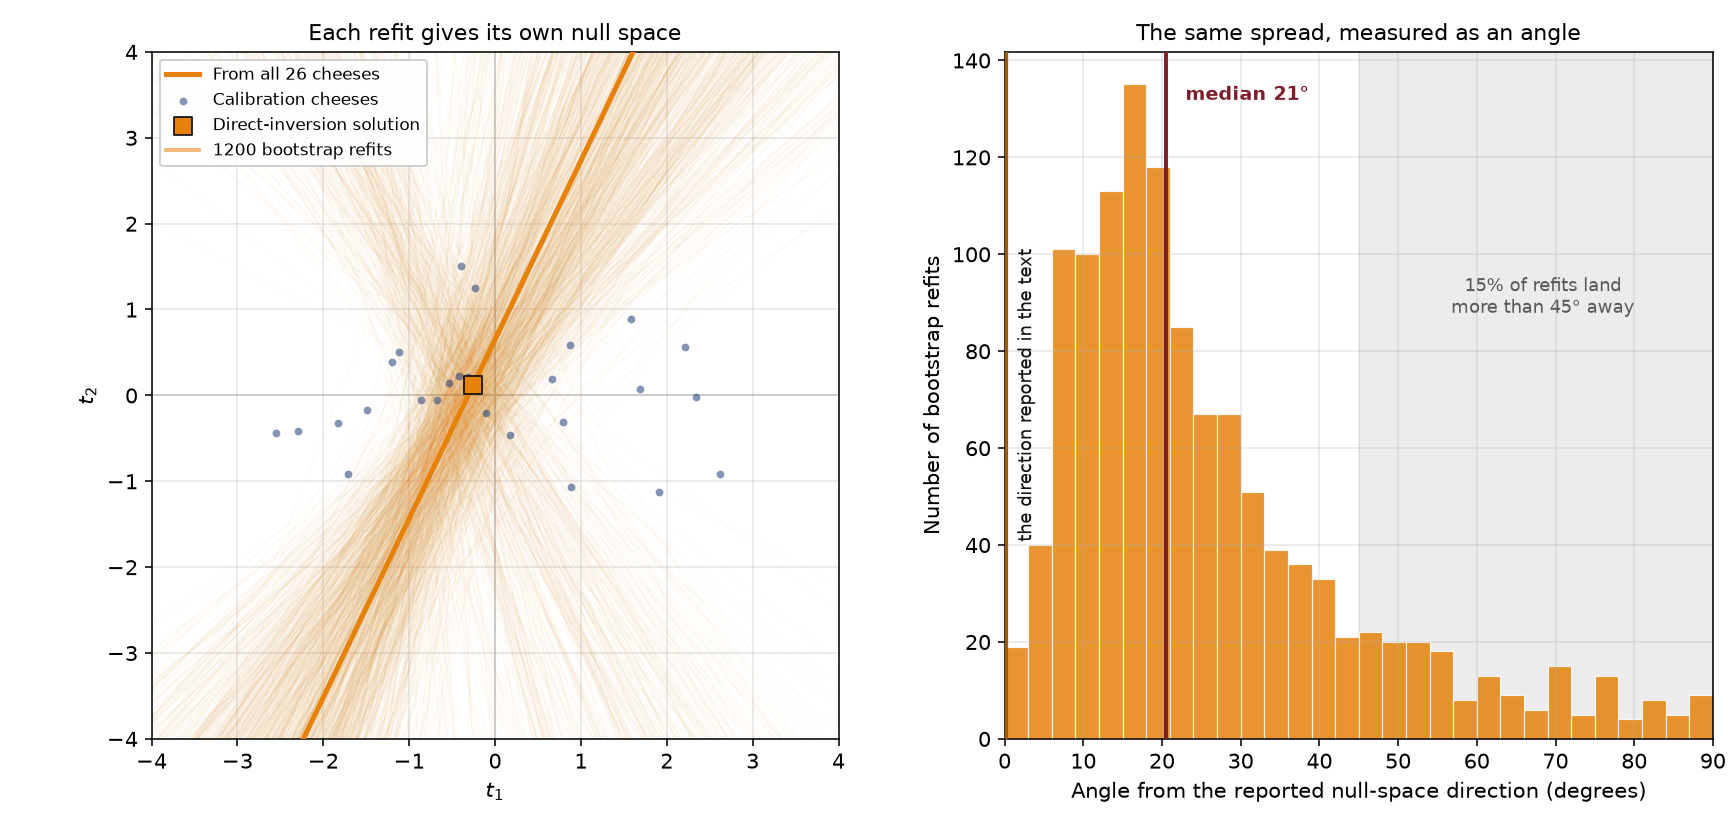
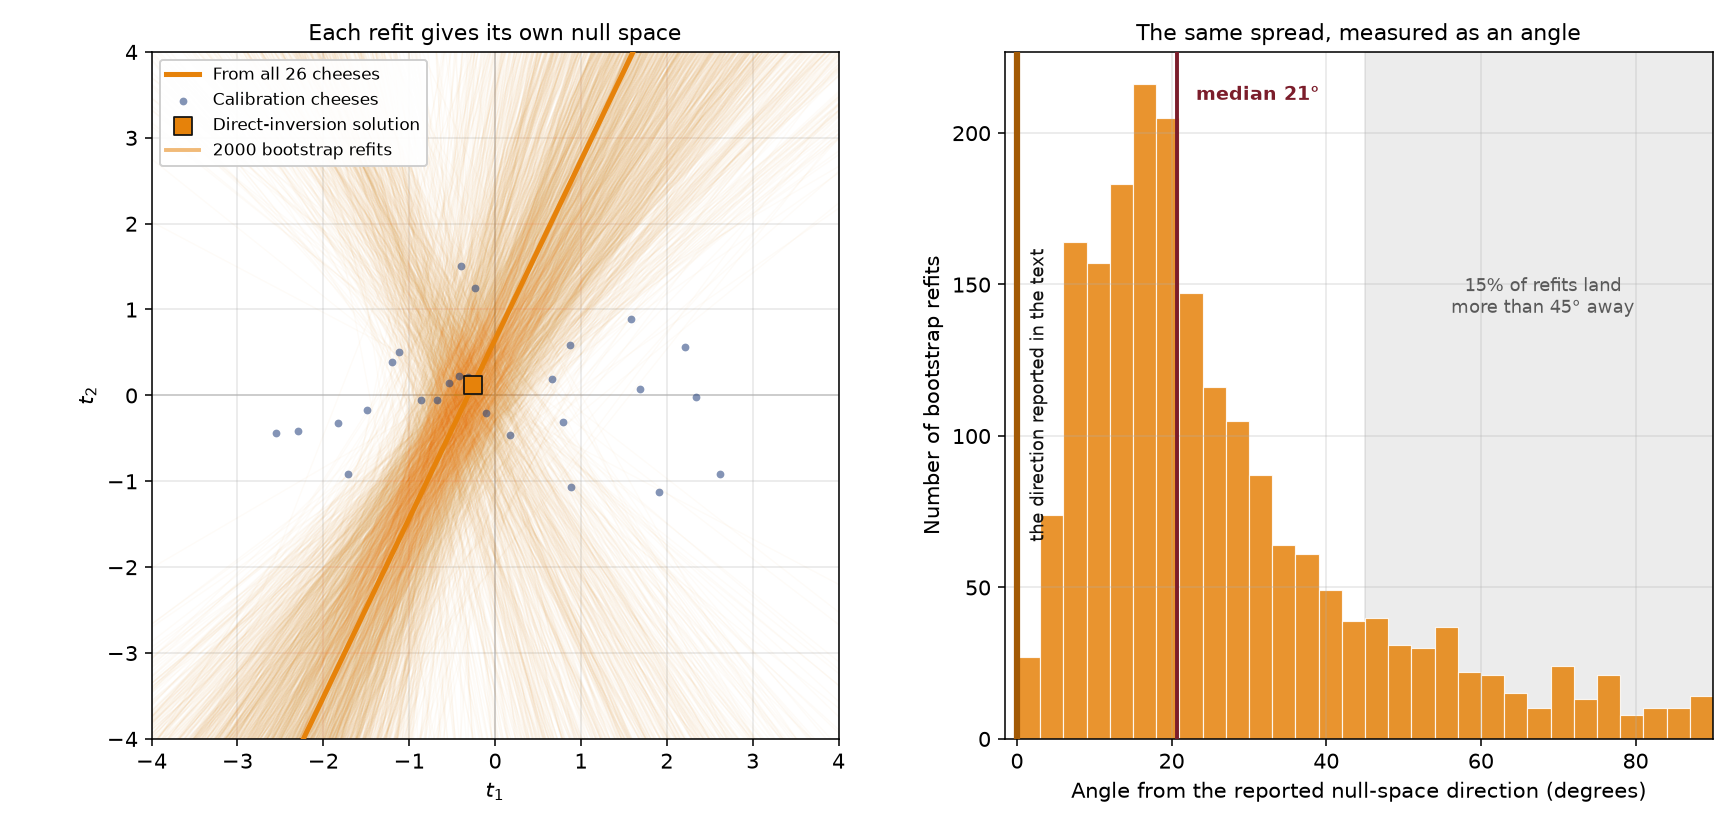
Match the chapter's refit count and clear the zero line of the spine
The chapter runs 2000 bootstrap refits, so the generator does too, rather
than the 1200 it started with. The dark orange line marking the reported
direction sat exactly on the y-axis spine and read as part of the frame;
a small negative x-margin lets it show as a plotted line.

Claude-Session: https://claude.ai/code/session_01DsTypY4FcRbrXRxorb9raz

Changed region(s): [[0.5599, 0.0605, 0.9954, 0.9383], [0.1244, 0.0605, 0.4355, 0.908]]

diff --git a/pls/pls-null-space-bootstrap.py b/pls/pls-null-space-bootstrap.py
@@ -19,7 +19,7 @@ calibration set gives. Compared without sign, since a direction and its
 negative describe the same line.
 
 Requires the ``process_improve`` package (``pip install process-improve``) for
-``PLS``. Runs roughly a minute for the default 1200 refits.
+``PLS``. Runs a couple of minutes for the default 2000 refits.
 
 Usage::
 
@@ -45,7 +45,7 @@ from process_improve.multivariate import PLS
 DATA_URL = "https://openmv.net/file/cheddar-cheese.csv"
 X_COLUMNS = ["Acetic", "H2S", "Lactic"]
 TARGET_TASTE = 20.9
-N_BOOTSTRAP = 1200
+N_BOOTSTRAP = 2000
 SEED = 0
 
 DARK_BLUE = "#1f3d7a"    # calibration cheeses
@@ -138,7 +138,7 @@ def build_figure(out_dir: Path) -> None:
     ax_hist.axvspan(45, 90, color=GREY, alpha=0.16, zorder=0)
     ax_hist.annotate(f"{beyond:.0f}% of refits land\nmore than 45° away", xy=(0.76, 0.62),
                      xycoords="axes fraction", ha="center", fontsize=9, color="0.35")
-    ax_hist.set_xlim(0, 90)
+    ax_hist.set_xlim(-1.6, 90)  # a sliver of margin so the line at zero is not under the spine
     ax_hist.set_xlabel("Angle from the reported null-space direction (degrees)")
     ax_hist.set_ylabel("Number of bootstrap refits")
     ax_hist.set_title("The same spread, measured as an angle", fontsize=11.5)
